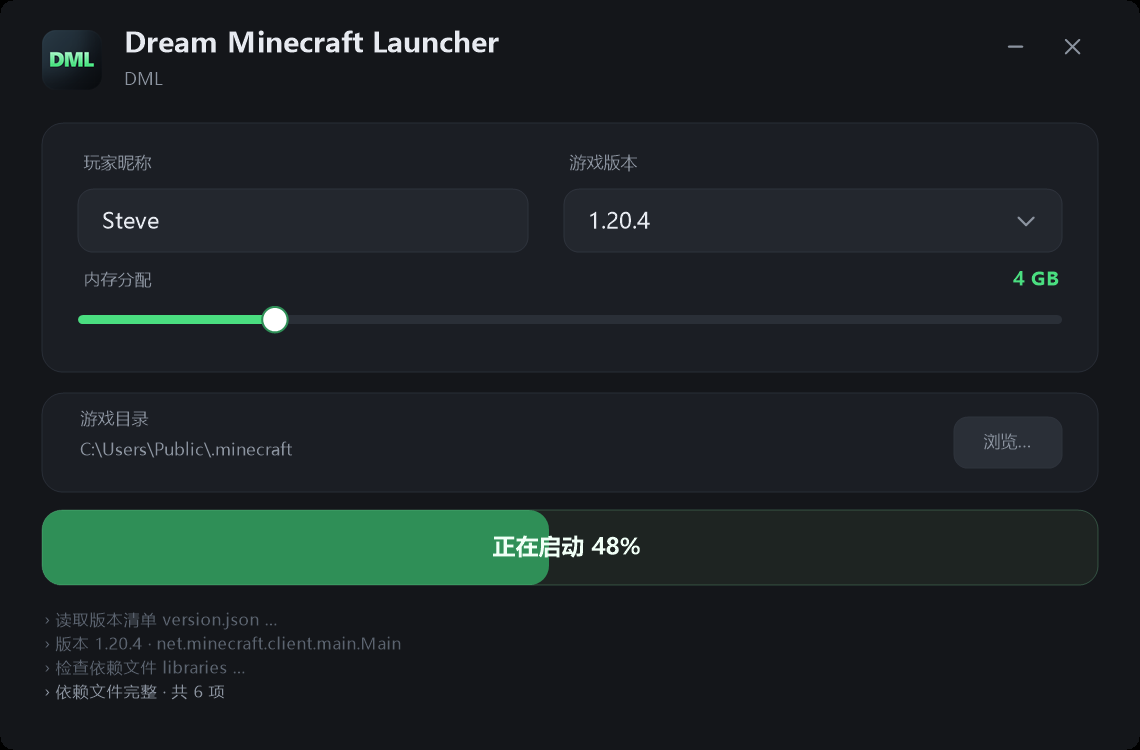
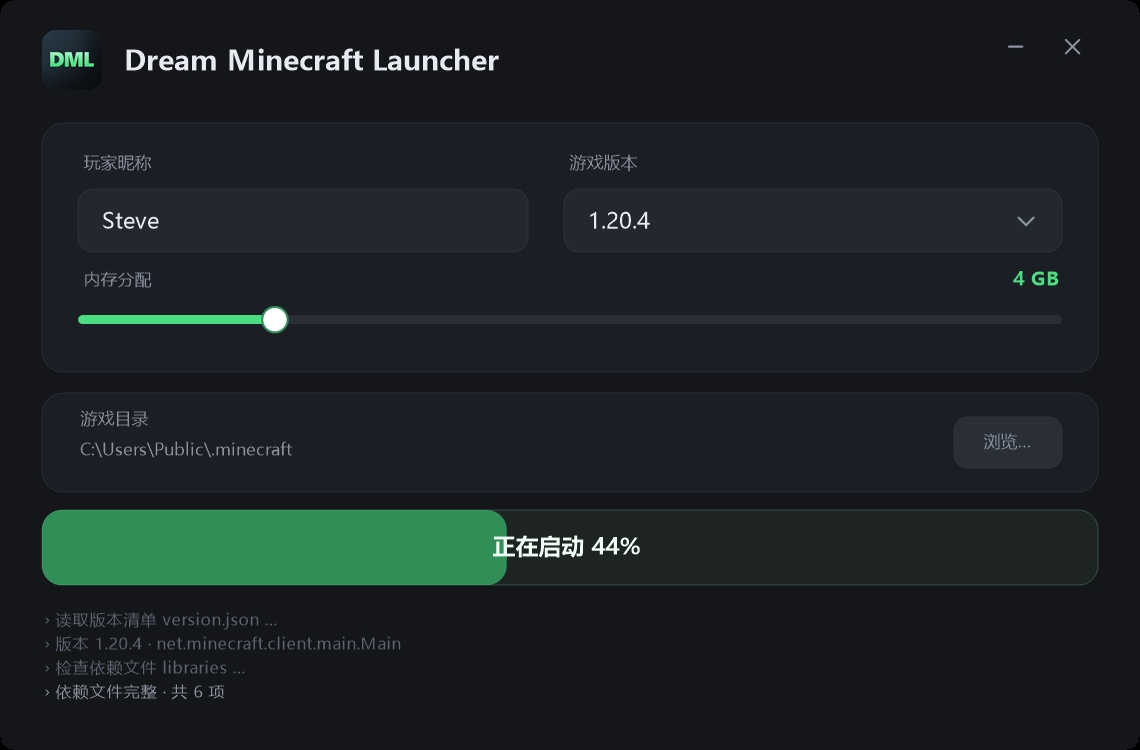
feat(ui): 去掉页眉副标题，标题与标志垂直居中
- 移除第二行副标题（DML），页眉只保留主标题一行
- 标题矩形由 y=14 下移到 y=26，与 40px 高的标志垂直居中对齐
- README 的 ASCII 界面框同步删掉副标题行
- 重截 4 张预览（1140x750），Java 路径打码区域按新布局重算
- 截图/造数据/打码脚本归档到 build/tools（build 已在 .gitignore 内）

Changed region(s): [[0.0921, 0.0307, 0.4605, 0.1227], [0.4298, 0.6747, 0.4912, 0.7973], [0.5219, 0.7053, 0.5526, 0.736]]

diff --git a/src/main.cpp b/src/main.cpp
@@ -1231,10 +1231,9 @@ static void Paint(HWND hwnd) {
 
         // ---------------- 头部 ----------------
         DrawLogo(gr, L.logo);
-        DrawStr(gr, L"Dream Minecraft Launcher", RectF(S(80), S(14), S(460), S(28)),
+        // 单行标题：与 40px 高的标志垂直居中对齐（标志 y=20..60，标题高 28 -> y=26）
+        DrawStr(gr, L"Dream Minecraft Launcher", RectF(S(80), S(26), S(460), S(28)),
                 *F.title, C(Theme::Text));
-        DrawStr(gr, L"DML",
-                RectF(S(81), S(44), S(460), S(18)), *F.sub, C(Theme::Muted));
         DrawWindowButtons(gr, L);
 
         // ---------------- 卡片一：账户 / 版本 / 内存 ----------------

diff --git a/README.md b/README.md
@@ -15,7 +15,6 @@
 ```
 ┌──────────────────────────────────────────────────────────────┐
 │ ▉ Dream Minecraft Launcher                       ─    ✕      │
-│   DML                                                        │
 │ ┌──────────────────────────────────────────────────────────┐ │
 │ │ 玩家昵称              游戏版本                            │ │
 │ │ ┌──────────────┐     ┌────────────────────┐              │ │
